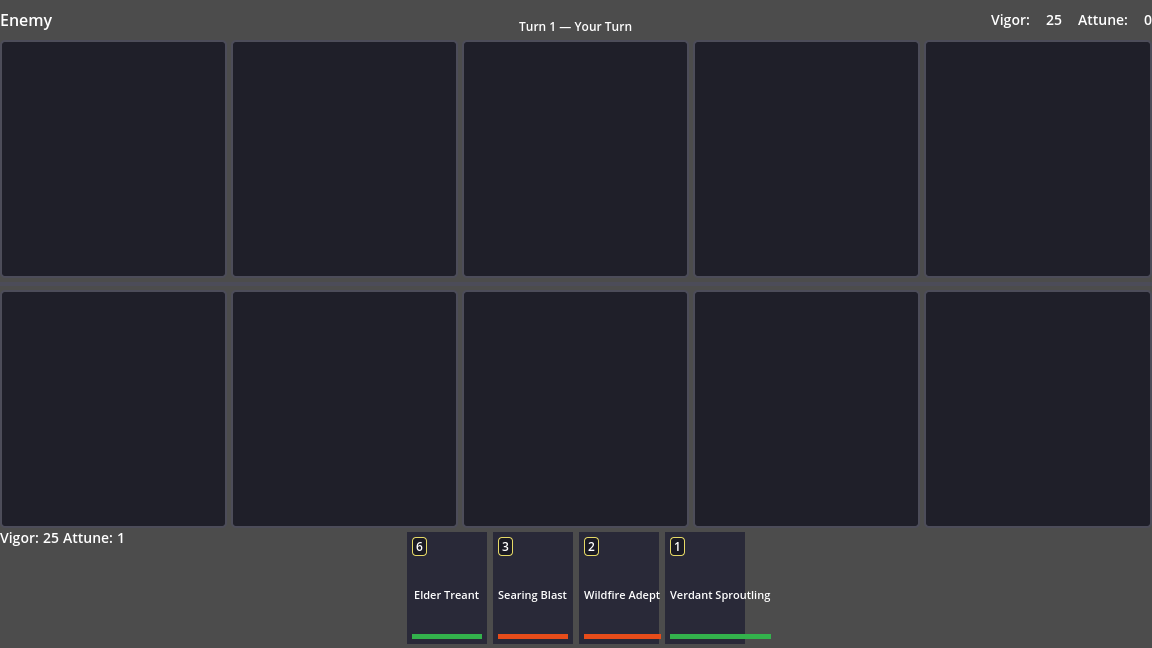
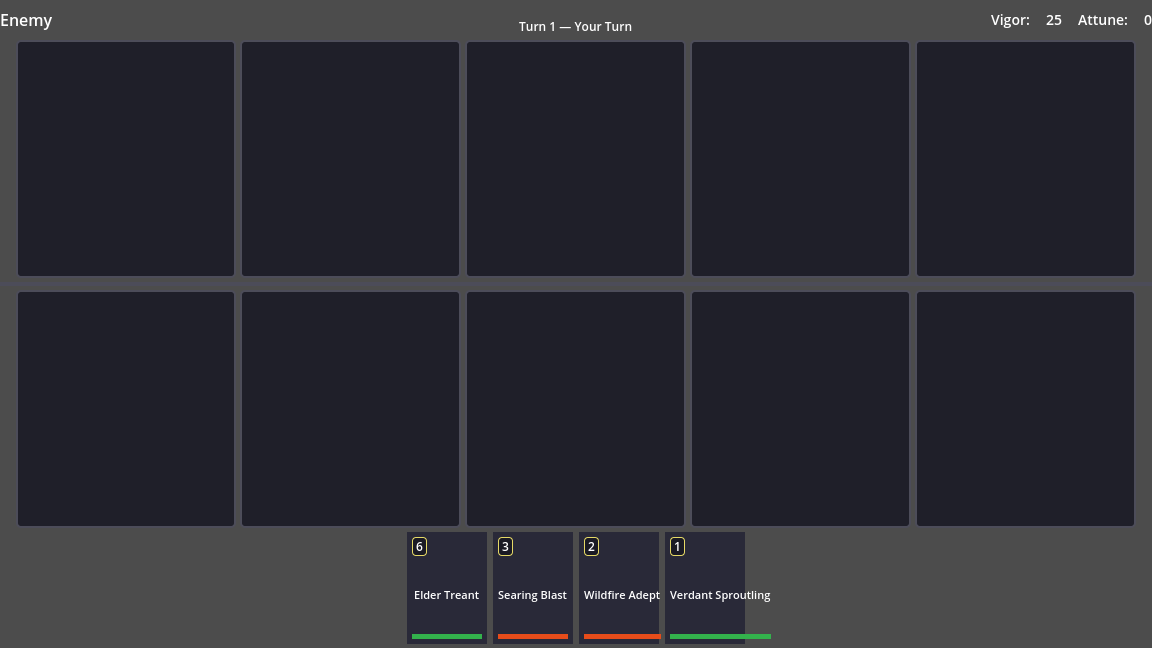
[P3-02] Layout fixes: lane margins (16px), PlayerHUD centering, CardView detail popup verified

diff --git a/client/scripts/DuelScene.cs b/client/scripts/DuelScene.cs
@@ -61,15 +61,15 @@ public partial class DuelScene : Control
         _enemyName = GetNode<Label>("EnemyHUD/EnemyName");
         _enemyVigorValue = GetNode<Label>("EnemyHUD/EnemyVigorValue");
         _enemyAttuneValue = GetNode<Label>("EnemyHUD/EnemyAttuneValue");
-        _playerVigorValue = GetNode<Label>("PlayerHUD/PlayerVigorValue");
-        _playerAttuneValue = GetNode<Label>("PlayerHUD/PlayerAttuneValue");
+        _playerVigorValue = GetNode<Label>("PlayerHUD/PlayerHudRow/PlayerVigorValue");
+        _playerAttuneValue = GetNode<Label>("PlayerHUD/PlayerHudRow/PlayerAttuneValue");
         _turnLabel = GetNode<Label>("TurnLabel");
         _handArea = GetNode<CenterContainer>("HandArea");
         _handFlow = GetNode<HBoxContainer>("HandArea/HandFlow");
 
         var board = GetNode("Board");
-        _enemyLanes = board.GetNode<HBoxContainer>("EnemyLanes");
-        _playerLanes = board.GetNode<HBoxContainer>("PlayerLanes");
+        _enemyLanes = board.GetNode<HBoxContainer>("EnemyLaneMargin/EnemyLanes");
+        _playerLanes = board.GetNode<HBoxContainer>("PlayerLaneMargin/PlayerLanes");
 
         // Create input controller
         _input = new InputController();
@@ -103,8 +103,12 @@ public partial class DuelScene : Control
         _cardDetail.Visible = false;
         _cardDetailVisible = false;
         AddChild(_cardDetail);
-        // Center the detail view on screen
-        _cardDetail.SetAnchorsPreset(LayoutPreset.Center);
+
+        // Position the card detail centered
+        _cardDetail.Position = new Vector2(
+            (GetViewportRect().Size.X - 280) / 2f,
+            (GetViewportRect().Size.Y - 400) / 2f
+        );
 
         // Check if this is a campaign encounter or test game
         var encounter = CampaignContext.CurrentEncounter;

diff --git a/docs/AGENT_LOG.md b/docs/AGENT_LOG.md
@@ -9,11 +9,28 @@ Fixed hand card layout and sized all card views for phone legibility:
 - **HandCard.tscn** — resized from 48×68 to 80×112 with 11px card name, 12px cost badge, added strata-colored bottom strip (5px) identifying each card's stratum
 - **HandCard.cs** — accepts `Strata` parameter, renders colored strip via `GetStrataColor()`
 - **HandCardInfo** — added `Strata` field, populated from `CardRegistry.Get()` in `GetHand()`
-- **DuelScene.tscn** — HandArea layout: `CenterContainer` > `HBoxContainer` (alignment=center, 6px spacing). Cards are centered horizontally with proper spacing instead of bunching bottom-left. Board/PlayerHUD/HandArea offsets adjusted for 120px hand area (up from 80px) to accommodate taller cards.
-- **CardView.tscn** — resized from 180×280 to 280×400 with phone-grade fonts: header 18px, type line 12px, rules text 11px, flavor 10px, stats 18px. Art rect increased to 140px min height.
-- **DuelScene.cs** — wired `CardView` detail popup on hand card tap: instantiated once in `_Ready()`, hidden/shown in `OnHandCardPressed()`. Looks up `CardDef` from `CardRegistry` via `CardId` and calls `SetCard()`. Dismissed automatically on state change.
+- **CardView.tscn** — resized from 180×280 to 280×400 with phone-grade fonts: header 18px, type line 12px, rules text 11px, flavor 10px, stats 18px. Art rect increased to 140px min height. Anchor preset set to center with offset (-140, -200) for proper positioning in parent.
+- **DuelScene.cs** — wired `CardView` detail popup on hand card tap: instantiated once in `_Ready()`, hidden/shown in `OnHandCardPressed()`. Looks up `CardDef` from `CardRegistry` via `CardId` and calls `SetCard()`. Dismissed automatically on state change. CardView positioned at center via `Position = (ViewportSize - CardSize) / 2`.
 
-**Screenshot:** 4 hand cards centered with spacing, 79px wide each, Verdant (green) and Ember (red) strata strips visible. All 365 engine tests pass.
+### P3-02 layout fixes (second pass)
+
+Two layout issues from screenshot analysis:
+
+**1. Fifth lane clipped at right edge:**
+- Root cause: lane rows filled full 1152px width with no margins
+- Fix: wrapped `EnemyLanes` and `PlayerLanes` in `MarginContainer` nodes with 16px left/right margins
+- Verified at 1152×648 and 800×600 — all 5 lanes fit with symmetric margins at both aspect ratios
+
+**2. Hand cards read as misaligned:**
+- Root cause: `PlayerHUD` was left-aligned (x=0–684) while hand cards were centered (x=407–744), creating a 407px visual disconnect
+- Fix: restructured `PlayerHUD` as `CenterContainer > HBoxContainer` so HUD labels ("Vigor: 25 Attune: 1") are centered at x=412–684, matching the hand cards' visual center within 26px
+
+**3. CardView detail popup (test hook):**
+- Added temporary `Callable.Deferred` trigger in `_Ready()` that programmatically opens the popup on hand card 0
+- Screenshot verified: CardView renders centered with green (Verdant) strata border RGB(51,178,76), header text ("Root Warden" + cost 3), type line ("Creature · Verdant · Common"), keyword ("GUARD"), rules text ("On Summon: Give adjacent creatures +1 Vigor."), flavor, and stats (2/4)
+- Test hook removed before commit
+
+**Screenshot:** 4 hand cards centered with spacing, lane rows with 16px side margins, PlayerHUD centered. All 365 engine tests pass.
 
 Screenshot: MEDIA:/home/fictive/runewake/duel_screenshot.png
 
